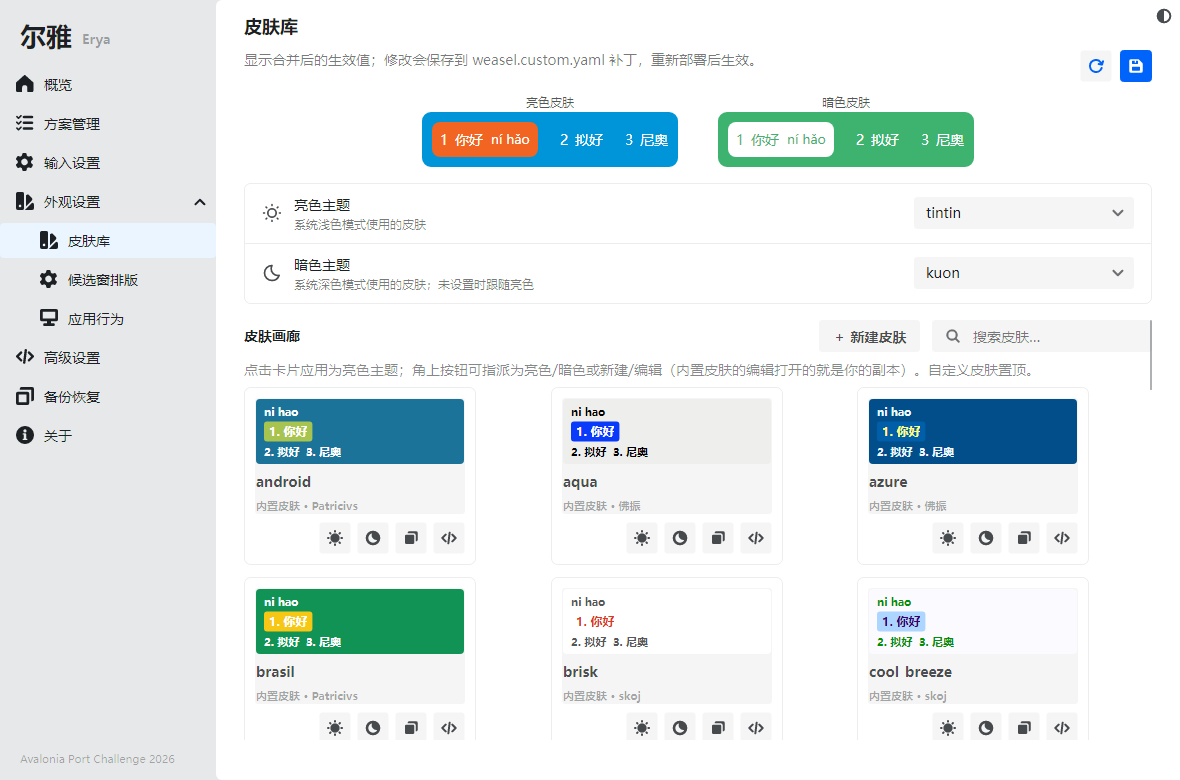
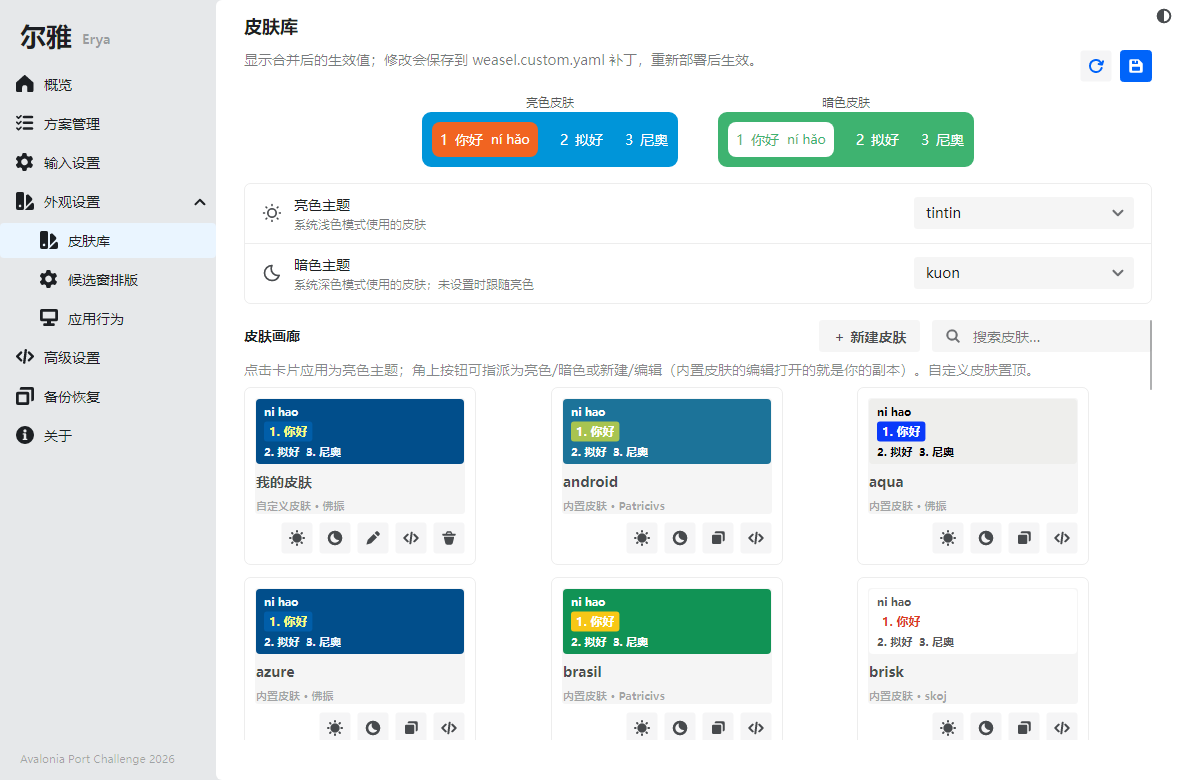
refactor: current role highlight via card border (round 10)

diff --git a/tests/Erya.UiTests/SettingsPageRenderTests.cs b/tests/Erya.UiTests/SettingsPageRenderTests.cs
@@ -249,19 +249,30 @@ public sealed class SettingsPageRenderTests : IDisposable
         Assert.True(vm.IsDirty);
         Assert.True(userDark.IsCurrentLight);
         Assert.False(userDark.IsCurrentDark);
-        // 当前角色用 Ursa Badge 角标显示在卡片上。
-        Assert.Contains(page.GetVisualDescendants().OfType<Ursa.Controls.Badge>(),
-            b => b.Content as string == "亮色" && b.IsVisible);
-        Assert.DoesNotContain(page.GetVisualDescendants().OfType<Ursa.Controls.Badge>(),
-            b => b.Content as string == "暗色" && b.IsVisible);
-        vm.UseAsDarkSchemeCommand.Execute(userDark);
-        Dispatcher.UIThread.RunJobs();
-        Assert.Equal("user_dark", vm.DarkSchemeField!.Selected);
-        Assert.True(userDark.IsCurrentDark);
+        // 当前角色用卡片描边高亮：当前亮色=主色 2px、暗色=紫 2px、普通=1px。
+        var cardBorders = page.GetVisualDescendants().OfType<Border>()
+            .Where(b => b.Classes.Contains("skin-card")).ToList();
+        Assert.Equal(2, cardBorders.Count);
+        var userCard = cardBorders.Single(b => ReferenceEquals(b.DataContext, userDark));
+        Assert.Equal(new Thickness(2), userCard.BorderThickness);
+        Assert.Equal(0x00, Assert.IsAssignableFrom<ISolidColorBrush>(userCard.BorderBrush).Color.R); // SemiColorPrimary
+        var plainCard = cardBorders.Single(b => !ReferenceEquals(b.DataContext, userDark));
+        Assert.Equal(new Thickness(1), plainCard.BorderThickness);
         vm.LightSchemeField.Selected = "macos_light"; // 还原，后续断言用
         Dispatcher.UIThread.RunJobs();
         Assert.True(editor.SchemeLibrary.Schemes.Single(s => s.Name == "macos_light").IsCurrentLight);
         Assert.False(userDark.IsCurrentLight);
+
+        // 仅作暗色时：紫色 2px 描边（亮色优先级更高，同挂两角色时显示主色）。
+        // 断言时重新取容器——列表若重建，早前捕获的引用是脱挂的旧 Border。
+        vm.UseAsDarkSchemeCommand.Execute(userDark);
+        Dispatcher.UIThread.RunJobs();
+        Assert.Equal("user_dark", vm.DarkSchemeField!.Selected);
+        Assert.True(userDark.IsCurrentDark);
+        var liveCard = page.GetVisualDescendants().OfType<Border>()
+            .Single(b => b.Classes.Contains("skin-card") && ReferenceEquals(b.DataContext, userDark));
+        Assert.Equal(new Thickness(2), liveCard.BorderThickness);
+        Assert.Equal(0x7C, Assert.IsAssignableFrom<ISolidColorBrush>(liveCard.BorderBrush).Color.R); // 暗色紫描边
 
         // 画廊：自定义置顶 + 搜索过滤。
         Assert.Equal(["user_dark", "macos_light"], vm.FilteredSchemes.Select(s => s.Name).ToList());

diff --git a/src/Erya/ViewModels/Settings/ColorSchemeViewModels.cs b/src/Erya/ViewModels/Settings/ColorSchemeViewModels.cs
@@ -7,6 +7,7 @@ using System.Linq;
 using System.Text;
 using System.Text.RegularExpressions;
 using System.Threading.Tasks;
+using Avalonia;
 using Avalonia.Controls.Notifications;
 using Avalonia.Input.Platform;
 using Avalonia.Media;
@@ -379,13 +380,37 @@ public sealed partial class ColorSchemeViewModel : ObservableObject
         }
     }
 
-    /// <summary>当前是 style/color_scheme 选中的皮肤（画廊角标，由皮肤库页维护）。</summary>
+    /// <summary>当前是 style/color_scheme 选中的皮肤（画廊高亮，由皮肤库页维护）。</summary>
     [ObservableProperty]
+    [NotifyPropertyChangedFor(nameof(CardBorderBrush))]
+    [NotifyPropertyChangedFor(nameof(CardBorderThickness))]
     private bool _isCurrentLight;
 
-    /// <summary>当前是 style/color_scheme_dark 选中的皮肤（画廊角标）。</summary>
+    /// <summary>当前是 style/color_scheme_dark 选中的皮肤（画廊高亮）。</summary>
     [ObservableProperty]
+    [NotifyPropertyChangedFor(nameof(CardBorderBrush))]
+    [NotifyPropertyChangedFor(nameof(CardBorderThickness))]
     private bool _isCurrentDark;
+
+    /// <summary>画廊卡片描边：当前亮色=主色、当前暗色=紫、普通=边框色（Win11 主题页式高亮）。</summary>
+    public IBrush CardBorderBrush
+    {
+        get
+        {
+            if (IsCurrentLight) return AppBrush("SemiColorPrimary") ?? new SolidColorBrush(Color.FromRgb(0x00, 0x64, 0xFA));
+            if (IsCurrentDark) return new SolidColorBrush(Color.FromRgb(0x7C, 0x5C, 0xFF));
+            return AppBrush("SemiColorBorder") ?? new SolidColorBrush(Color.FromRgb(0xD9, 0xD9, 0xD9));
+        }
+    }
+
+    public Thickness CardBorderThickness => IsCurrentLight || IsCurrentDark ? new Thickness(2) : new Thickness(1);
+
+    private static IBrush? AppBrush(string key)
+        => Avalonia.Application.Current is { } app
+           && app.TryGetResource(key, app.ActualThemeVariant, out var value)
+           && value is IBrush brush
+            ? brush
+            : null;
 
     private CandidatePreviewViewModel? _detailPreview;
 
